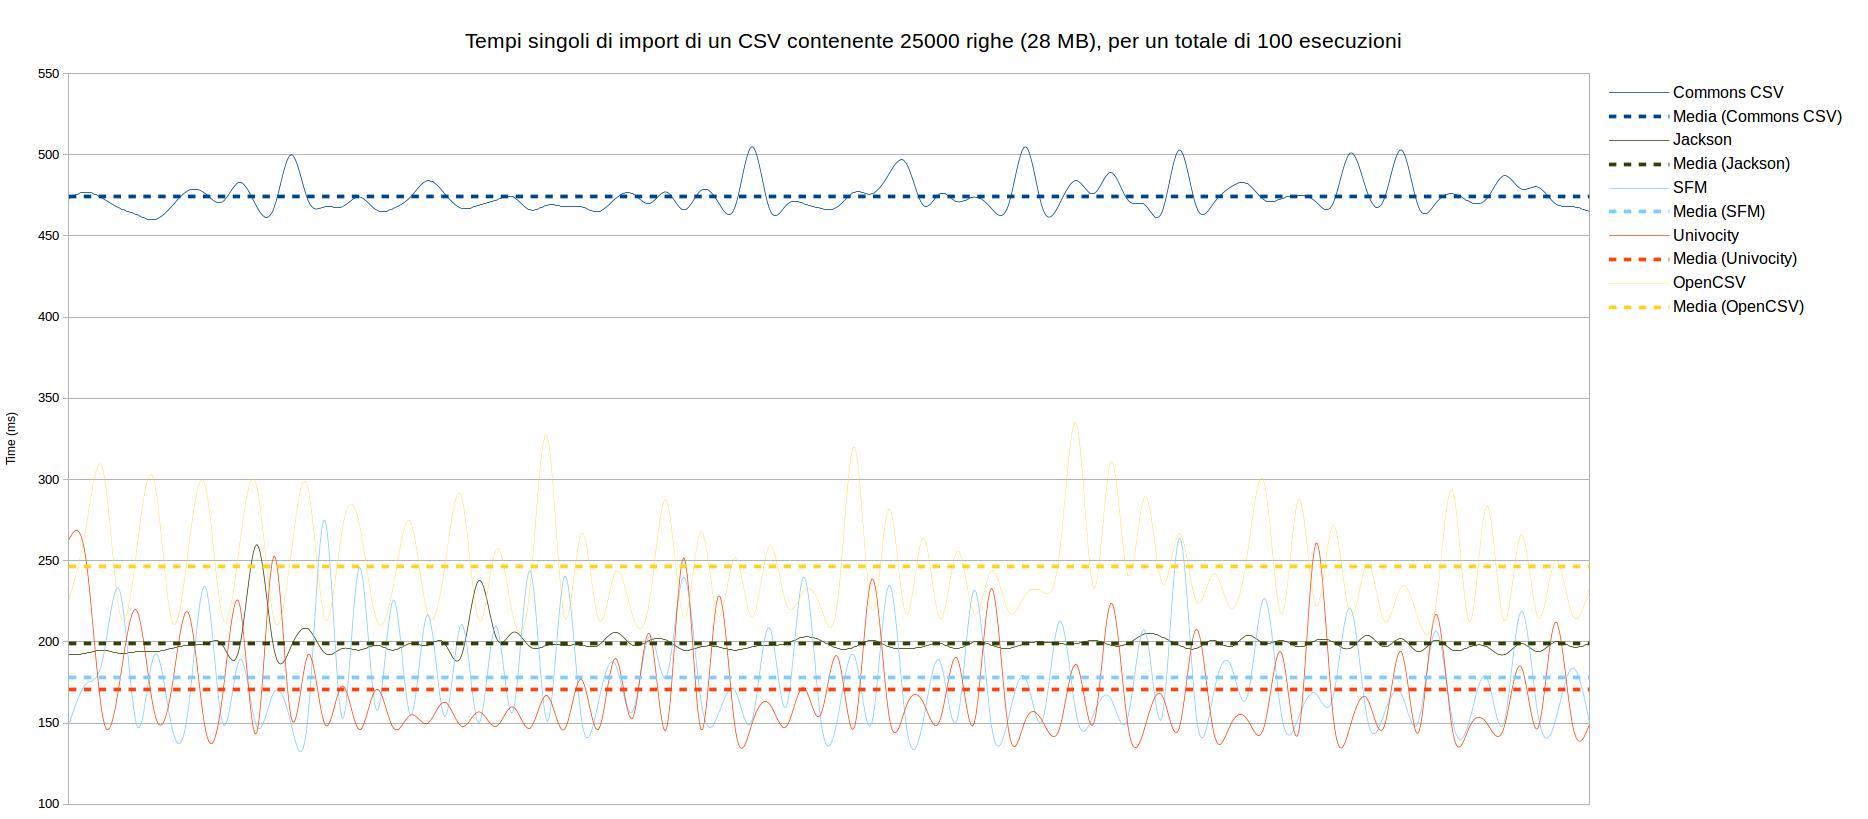
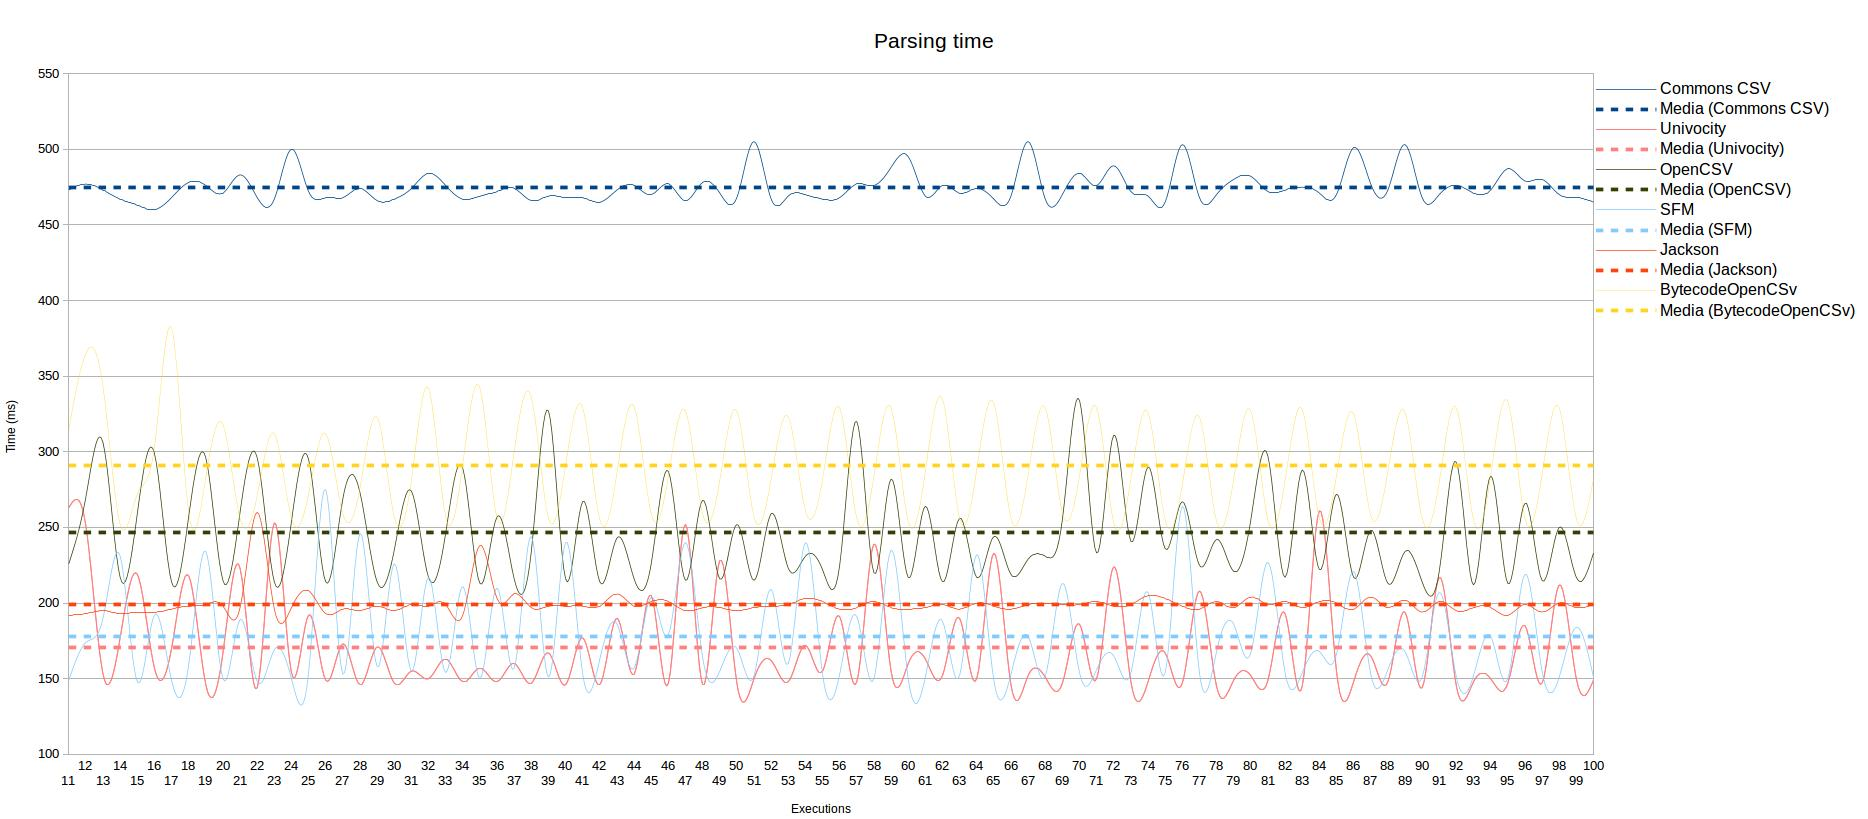
Added Bytecode OpenCSV test

diff --git a/csv/src/main/java/it/xseris/benchmarking/csv/Application.java b/csv/src/main/java/it/xseris/benchmarking/csv/Application.java
@@ -8,14 +8,17 @@ public class Application {
 	
 	public static void main(String[] args) throws IOException {
 		Univocity univocity = new Univocity();
-		System.out.println("Univocity took: " + univocity.run(TIMES));
 		CommonsCSV commonsCsv = new CommonsCSV();
-		System.out.println("Commons CSV took: " + commonsCsv.run(TIMES));
 		OpenCSV openCSV = new OpenCSV();
-		System.out.println("OpenCSV took: " + openCSV.run(TIMES));
+		BytecodeOpenCSV bytecodeOpenCSV = new BytecodeOpenCSV();
 		SFM sfm = new SFM();
-		System.out.println("SFM took: " + sfm.run(TIMES));
 		Jackson jackson = new Jackson();
+
+		System.out.println("Univocity took: " + univocity.run(TIMES));
+		System.out.println("Commons CSV took: " + commonsCsv.run(TIMES));
+		System.out.println("OpenCSV took: " + openCSV.run(TIMES));
+		System.out.println("BytecodeOpenCSV took: " + bytecodeOpenCSV.run(TIMES));
+		System.out.println("SFM took: " + sfm.run(TIMES));
 		System.out.println("Jackson took: " + jackson.run(TIMES));
 	}
 }

diff --git a/csv/src/main/java/it/xseris/benchmarking/csv/BytecodeOpenCSV.java b/csv/src/main/java/it/xseris/benchmarking/csv/BytecodeOpenCSV.java
@@ -1,0 +1,34 @@
+package it.xseris.benchmarking.csv;
+
+import java.io.File;
+import java.io.FileReader;
+import java.io.IOException;
+import java.io.Reader;
+import java.util.List;
+
+import au.com.bytecode.opencsv.CSVReader;
+
+public class BytecodeOpenCSV {
+
+	public long run(int times) throws IOException {
+		long tot = 0;
+
+		ClassLoader classLoader = BytecodeOpenCSV.class.getClassLoader();
+		for (int i = 0; i < times; i++) {
+			File file = new File(classLoader.getResource("test.csv").getFile());
+			Reader in = new FileReader(file);
+
+			CSVReader reader = new CSVReader(in, ',', '"', 0);
+
+			long start = System.currentTimeMillis();
+			List<String[]> rows = reader.readAll();
+			long end = System.currentTimeMillis() - start;
+
+			in.close();
+			rows = null;
+			System.out.println(end);
+			tot += end;
+		}
+		return tot / times;
+	}
+}

diff --git a/csv/README.md b/csv/README.md
@@ -1,6 +1,6 @@
 # Some personal CSV benchmarking
 
-The purpose of this benchmark is to compare 5 CSV parser in order to evaluate the fastest one.
+The purpose of this benchmark is to compare 6 CSV parser in order to evaluate the fastest one.
 For each parser, the final values are an average of 100 full import operations. To ensure the most precise results as possible,
  the first 10 tests of each parser have not been considered due to [system warm-up](https://dzone.com/articles/why-many-java-performance-test) period.
  For the same reason, all tests run independently and not one following other.
@@ -17,6 +17,7 @@ The dataset used for benchmarking contains 25000 rows with a total size of about
 | SimpleFlatMapper 3.15.1  |    148   |    275   |  177.89  |  + 4.33%  |
 | Jackson-dataformat 2.8.8 |    192   |    260   |  199.26  |  + 16.87% |
 | OpenCSV 4.0              |    212   |    334   |  246.67  |  + 44.67% |
+| Bytecode OpenCSV 2.4     |    252   |    382   |  291.11  |  + 70.74% |
 | Commons Csv 1.5          |    460   |    505   |  474.44  | + 178.28% |
 
 ### Graphical executions:
